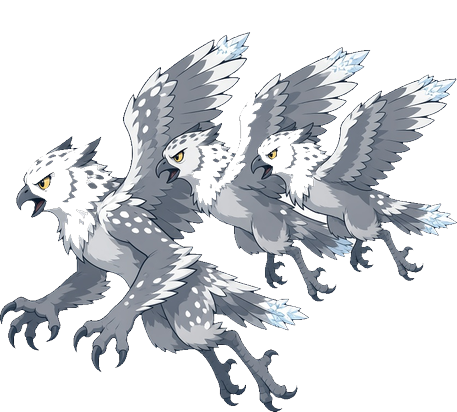
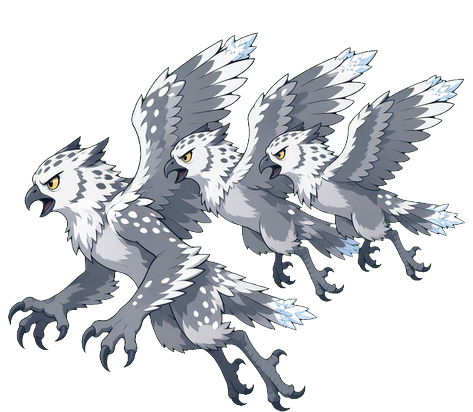
Frost five re-cut on green: no more see-through feathers
- cut-sprite.py removes a white background by colour, which also took
  the Snow Harpies' white feathers (2.5% holes) and the Icy Witch's
  snowflakes (1.6%). Each picture was put on flat green by a Grok edit
  (character unchanged) and cut with cut-green.py, scaled to the old
  height and bottom line.
- ART.md: generate pale characters on green.
- DECISIONS #91; screenshots in docs/audit/frost-cutout-2026-11-01.

Claude-Session: https://claude.ai/code/session_019Lkx2XUgC2w8gfzapayGjN

Changed region(s): [[0.0, 0.0874, 1.0, 1.0]]

diff --git a/re-rpg/docs/DECISIONS.md b/re-rpg/docs/DECISIONS.md
@@ -1579,3 +1579,31 @@ method). Every node and road is on its painted road, so `screen2.ts` is unchange
 run on screen 2 panned the whole map and walked to the first node.
 
 About $0.40. Screenshots in `docs/audit/map2-twilight-2026-11-01/`.
+
+## 91. The frost five cut out on green: no more see-through feathers
+
+Designer's report (a screenshot): the Snow Harpies had holes; the frozen lake showed through
+their white feathers.
+
+**What was wrong**: the frost five (#84) were drawn on white and cut with `cut-sprite.py`, which
+takes the background colour from the corners and removes it two ways. It floods in from the
+border, and it clears large enclosed pockets of that colour. On white and pale figures both eat
+the figure: white feathers, fur trim and snowflakes match the background. Measured enclosed holes:
+- Snow Harpies: 2.5% of the figure;
+- Icy Witch: 1.6%, which included her snowflake swirl.
+
+Holes that open to the edge do not show in that count, so all five were redone.
+
+**The fix**: each existing picture went back to Grok with one instruction, to replace only the
+white background with flat green, keeping the character exactly the same
+(`art-src/frost-enemies/<id>_green.jpg`). They were cut with `cut-green.py`, which keys green, so
+nothing white in a figure can be taken for background. Each new cut was scaled to the old figure's
+height and bottom line, so every enemy stands exactly where it did (the harpies' canvas is 16 px
+wider).
+
+What is see-through now is a real gap: between an arm and a staff, between legs. Side by side over
+the frozen lake (`0-old-vs-green.jpg`), the harpies are whole, the knight's cape is solid, and the
+witch has her snowflake swirl back.
+
+**From now on**: generate any pale or white character on flat green from the start and cut it
+with `cut-green.py` (docs/ART.md). About $0.35.

diff --git a/re-rpg/docs/ART.md b/re-rpg/docs/ART.md
@@ -250,6 +250,13 @@ the top centre). `python3 scripts/cut-green.py <src> public/art/c/frame_<theme>.
 the green and keeps the whole frame at card size. Avoid "death" wording for the curse frame:
 moderation refused it, and a cartoon Halloween prompt passed.
 
+### Pale characters: green, not white (DECISIONS #91)
+
+`cut-sprite.py` removes a white background by colour, so it also eats white feathers, fur and snow.
+Generate a pale character on flat green (#00ff00), or edit an existing picture to put it on green
+("replace only the white background with flat green, keep the character exactly the same"), and cut
+it with `cut-green.py`.
+
 ### Effect sprites (scripts/cut-green.py)
 
 For a battle effect image (the curse skull, DECISIONS #79), generate it on a flat solid green

diff --git a/re-rpg/docs/NEXT.md b/re-rpg/docs/NEXT.md
@@ -83,7 +83,7 @@ own command → Playwright at 844×390 (the game) or 390×844 (the editors) with
 (Test Mode: set registry `testSetup`, call `TestMode.fight()`, then `Combat.act()` and poll
 `busy`; to answer a dialogue from a script, `scene('Dialogue').choose(d, option)`) → commit with
 the attribution lines → `git push -u origin <branch>` → poll gh-pages. Record decisions in
-`docs/DECISIONS.md` (next number is 91). Screenshots of checks go in `docs/audit/<topic>-<date>/`.
+`docs/DECISIONS.md` (next number is 92). Screenshots of checks go in `docs/audit/<topic>-<date>/`.
 
 **Run logs** (`docs/PLAYTESTS.md`, DECISIONS #67). When the designer sends a run log, always:
 1. save it in `docs/playtests/`;
